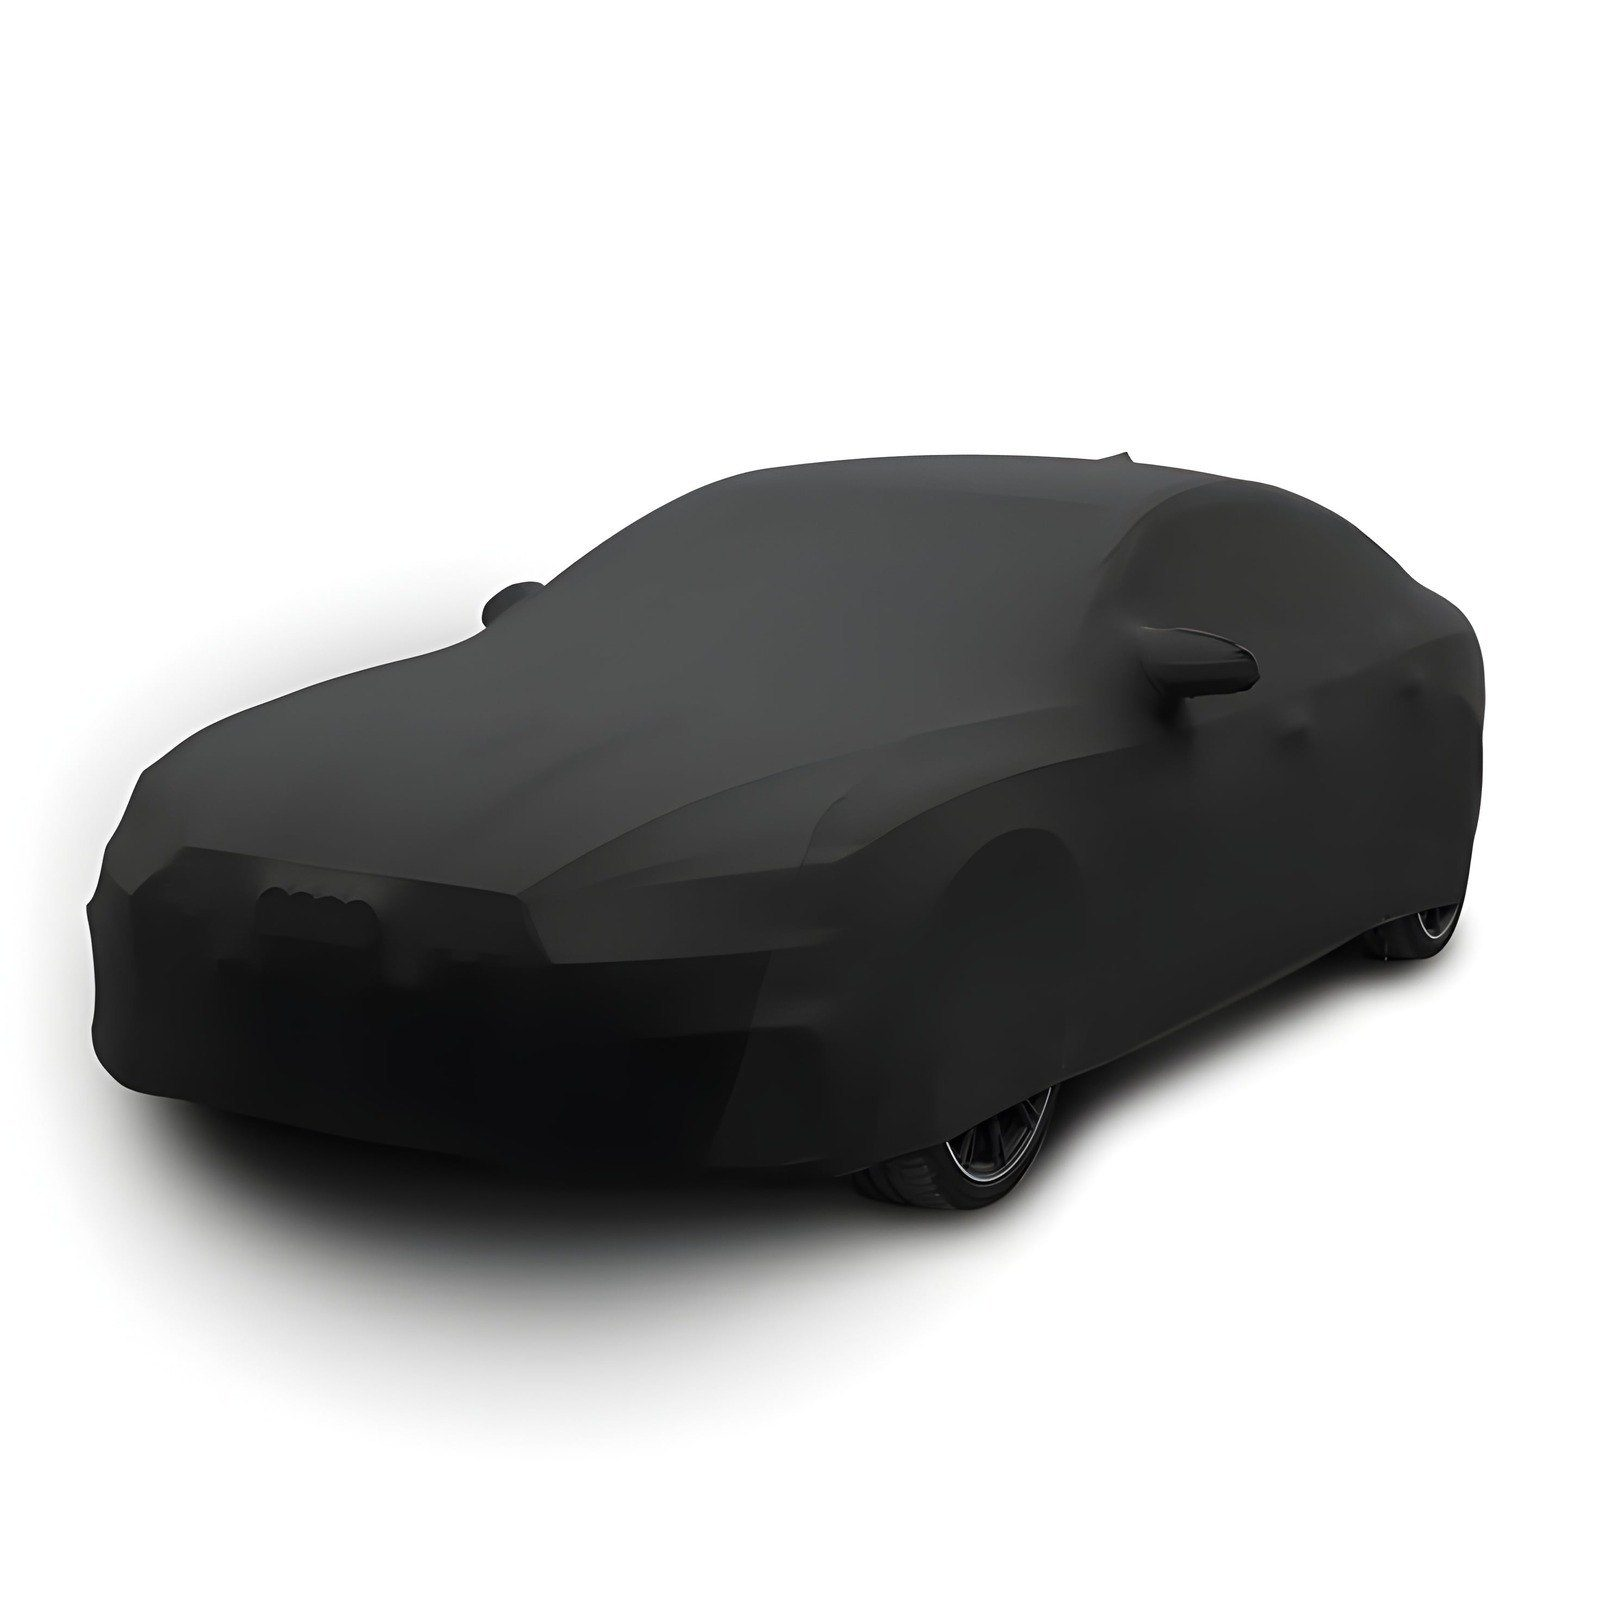
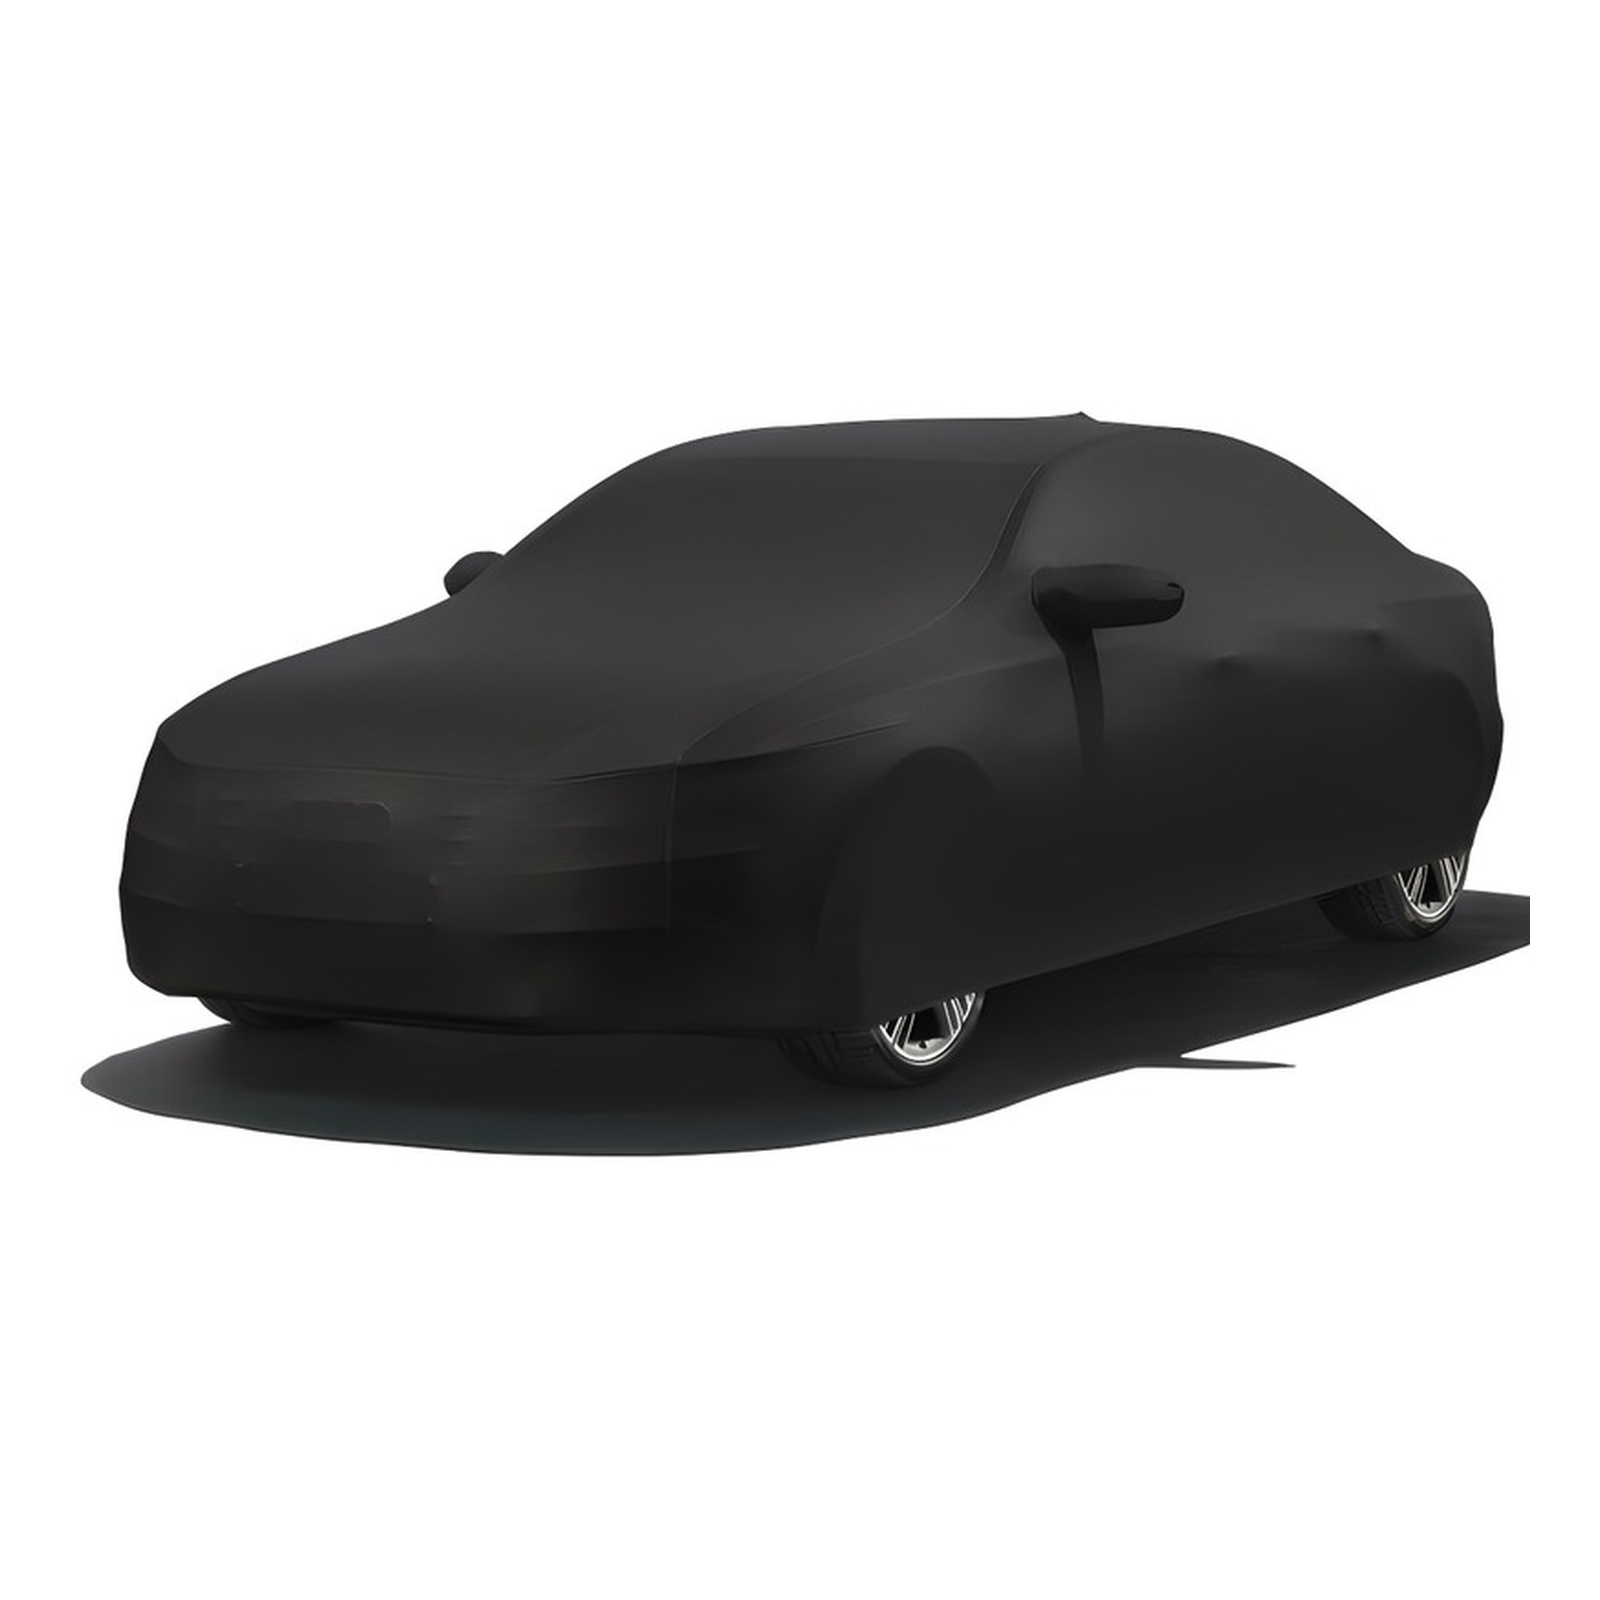
feat: update outdoor cards, swap images, set elite fabric and remove bottom showcase card

Changed region(s): [[0.0312, 0.25, 0.9688, 0.875], [0.875, 0.3438, 0.9375, 0.5]]

diff --git a/src/app/shop/page.tsx b/src/app/shop/page.tsx
@@ -286,86 +286,6 @@ function RangeCard({ f }: { f: Fabric }) {
   );
 }
 
-/** Featured full-width luxury showcase for our top pinnacle Outdoor Signature cover. */
-function SignatureFeatureCard({ f }: { f: Fabric }) {
-  return (
-    <div className="mt-12 sm:mt-16 relative rounded-[2.5rem] p-[2px] bg-gradient-to-r from-[#cca462] via-[#ffe5a3] to-[#b38848] shadow-[0_25px_80px_-20px_rgba(204,164,98,0.45)] hover:shadow-[0_35px_100px_-20px_rgba(204,164,98,0.65)] transition-all duration-700">
-      <div className="group rounded-[2.4rem] bg-[#0c0e14] text-white overflow-hidden relative">
-        <div className="absolute top-0 right-0 w-[500px] h-[500px] bg-[#cca462]/10 rounded-full blur-[120px] pointer-events-none" />
-        <div className="grid lg:grid-cols-12 items-stretch">
-          {/* IMAGE */}
-          <div className="lg:col-span-7 relative min-h-[340px] sm:min-h-[440px] lg:min-h-[480px] overflow-hidden bg-slate-950">
-            <img
-              src={f.image}
-              alt={`${f.title} car cover`}
-              loading="lazy"
-              className="absolute inset-0 w-full h-full object-cover transition-transform duration-[1600ms] ease-out group-hover:scale-105"
-            />
-            <div className="absolute inset-0 bg-gradient-to-t from-[#0c0e14] via-black/20 to-black/30 lg:bg-gradient-to-r lg:from-transparent lg:via-[#0c0e14]/25 lg:to-[#0c0e14]" />
-
-            <div className="absolute top-5 left-5 flex items-center gap-2">
-              <span className="bg-gradient-to-r from-[#cca462] via-[#faecc7] to-[#cca462] text-black text-[10px] sm:text-[11px] font-extrabold tracking-[2px] uppercase px-4 py-2 rounded-full shadow-2xl flex items-center gap-1.5">
-                <Sparkles size={13} className="text-black" />
-                OUR FLAGSHIP OUTDOOR
-              </span>
-            </div>
-
-            <div className="absolute bottom-5 left-5 right-5 flex flex-wrap items-center justify-between gap-2 text-xs text-white/90 backdrop-blur-md bg-black/55 px-4 py-2.5 rounded-full border border-[#cca462]/35">
-              <span className="flex items-center gap-2 font-medium">
-                <span className="w-2 h-2 rounded-full bg-[#cca462] animate-pulse" />
-                Hand-finished signature contrast piping
-              </span>
-              <span className="text-[#f6e3b4] font-semibold text-[11px] tracking-wider uppercase">10,000mm Waterproof</span>
-            </div>
-          </div>
-
-          {/* CONTENT */}
-          <div className="lg:col-span-5 p-7 sm:p-9 lg:p-11 flex flex-col justify-between relative z-10">
-            <div>
-              <div className="flex items-center gap-2 text-[#cca462] text-[11px] font-bold tracking-[3px] uppercase mb-2">
-                <span>The Pinnacle Tier</span>
-                <span className="h-px w-8 bg-[#cca462]/60" />
-              </div>
-              <h3 className="text-white text-3xl sm:text-4xl font-semibold tracking-wide uppercase leading-tight" style={{ fontFamily: 'var(--font-hype)' }}>
-                {f.title}
-              </h3>
-              <p className="mt-1 text-sm text-[#f6e3b4] font-medium">{f.subtitle}</p>
-              <p className="mt-3.5 text-slate-300 text-sm leading-relaxed">{f.description}</p>
-
-              <div className="mt-6 space-y-2.5">
-                {f.specs.map((s) => (
-                  <div key={s} className="flex items-start gap-2.5 text-[13px] text-slate-200 leading-snug">
-                    <span className="mt-0.5 w-4 h-4 rounded-full bg-[#cca462]/20 border border-[#cca462]/60 flex items-center justify-center flex-shrink-0">
-                      <Check size={10} className="text-[#cca462]" />
-                    </span>
-                    <span>{s}</span>
-                  </div>
-                ))}
-              </div>
-            </div>
-
-            <div className="mt-8 pt-6 border-t border-white/10 flex flex-col sm:flex-row sm:items-end justify-between gap-5">
-              <div>
-                <span className="block text-[10px] font-bold uppercase tracking-[2px] text-[#cca462]">Starting from</span>
-                <span className="text-3xl font-semibold text-white" style={{ fontFamily: 'var(--font-hype)' }}>
-                  ₹{f.price.toLocaleString('en-IN')}
-                </span>
-                <span className="block text-[11px] text-slate-400 mt-0.5">{PRICE_NOTE}</span>
-              </div>
-              <Link
-                href={`/shop/${f.id}`}
-                className="inline-flex items-center justify-center gap-2 px-8 py-4 rounded-full bg-gradient-to-r from-[#cca462] to-[#f6e3b4] hover:brightness-110 text-black text-xs font-bold uppercase tracking-[2px] transition-all no-underline shadow-[0_12px_28px_-6px_rgba(204,164,98,0.5)] whitespace-nowrap"
-              >
-                <span>Choose Signature</span>
-                <ArrowRight size={14} />
-              </Link>
-            </div>
-          </div>
-        </div>
-      </div>
-    </div>
-  );
-}
 
 const SHOP_LD = {
   '@context': 'https://schema.org',
@@ -418,11 +338,6 @@ export default function ShopPage() {
                     {FABRICS.filter((f) => f.group === g.id).map((f) => <FlipCard key={f.id} f={f} />)}
                   </MobileSlider>
 
-                  {/* Agli row: Highlighted Flagship Outdoor Signature */}
-                  {g.id === 'outdoor' && (() => {
-                    const sig = FABRICS.find((f) => f.id === 'outdoor-signature');
-                    return sig ? <SignatureFeatureCard f={sig} /> : null;
-                  })()}
 
                   {g.id === 'custom' && (
                     <div className="mt-10 sm:mt-12 text-center max-w-xl mx-auto p-5 rounded-2xl bg-black/[0.03] border border-black/10">
